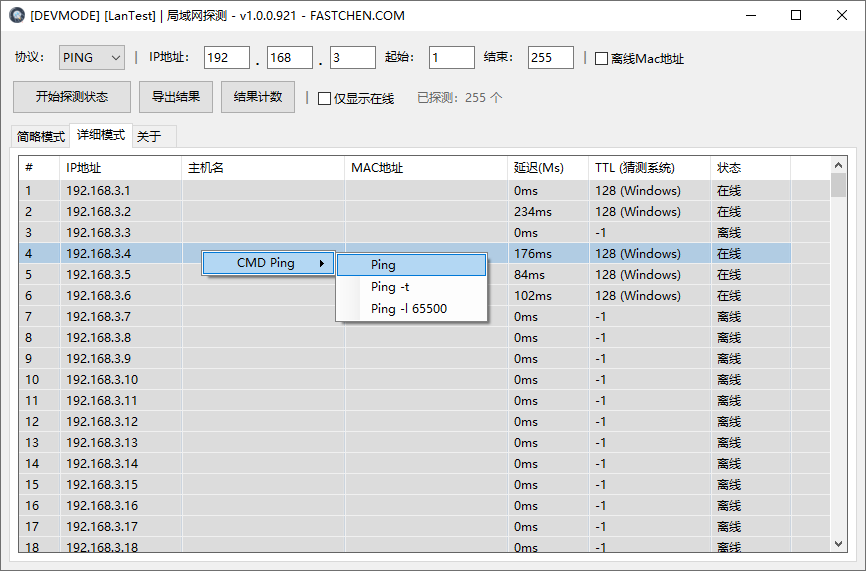
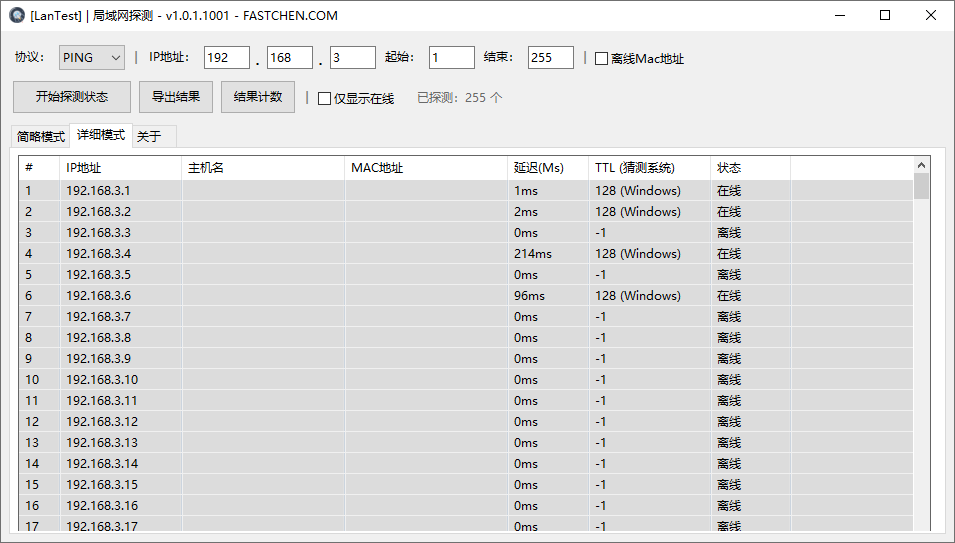
#91: update /software/lantest

diff --git a/software/lantest/tutorial.md b/software/lantest/tutorial.md
@@ -6,10 +6,10 @@ description: Tutorial for LanTest
 
 运行软件后，在 **IP地址** 处填写要测试的 **前三段IP地址**，在 **起始** 处填写第四段开始数，在 **结束** 处填写第四段结束数，然后点击 **开始检测IP状态** 按钮，并坐和放宽。
 
-<figure><img src="../../.gitbook/assets/lantest_home.png" alt=""><figcaption></figcaption></figure>
+<figure><img src="../../.gitbook/assets/lantest_main.png" alt=""><figcaption><p>局域网探测 | 简略模式</p></figcaption></figure>
 
 扫描完毕后可以点击 结果计数 确认扫描数量与设置的数量一致，并快速查看在线数量。
 
 探测后也可切换至详细模式查看更多细节。
 
-<figure><img src="../../.gitbook/assets/lantest_detail.png" alt=""><figcaption></figcaption></figure>
+<figure><img src="../../.gitbook/assets/lantest_detail.png" alt=""><figcaption><p>局域网探测 | 详细模式</p></figcaption></figure>

diff --git a/software/lantest/README.md b/software/lantest/README.md
@@ -53,6 +53,6 @@ Trace.WriteLine(NullCraftSoftwareList.Items.Conut());
 
 ### 软件图片
 
-<figure><img src="../../.gitbook/assets/lantest_home.png" alt=""><figcaption><p>局域网探测 | 主页 简略模式</p></figcaption></figure>
+<figure><img src="../../.gitbook/assets/lantest_main.png" alt=""><figcaption><p>局域网探测 | 简略模式</p></figcaption></figure>
 
 <figure><img src="../../.gitbook/assets/lantest_detail.png" alt=""><figcaption><p>局域网探测 | 详细模式</p></figcaption></figure>

diff --git a/software/lantest/update.md b/software/lantest/update.md
@@ -10,6 +10,13 @@ description: Update for LanTest
 
 ## 更新记录
 
+### v1.0.1.1001 (2024-10-01)
+
+<mark style="color:orange;">**`[优化]`**</mark>
+
+* 简略模式节点控件优化
+* 状态颜色显示排序调整
+
 ### v1.0.0.921 (2024-09-21)
 
 // 第一个正式版本
